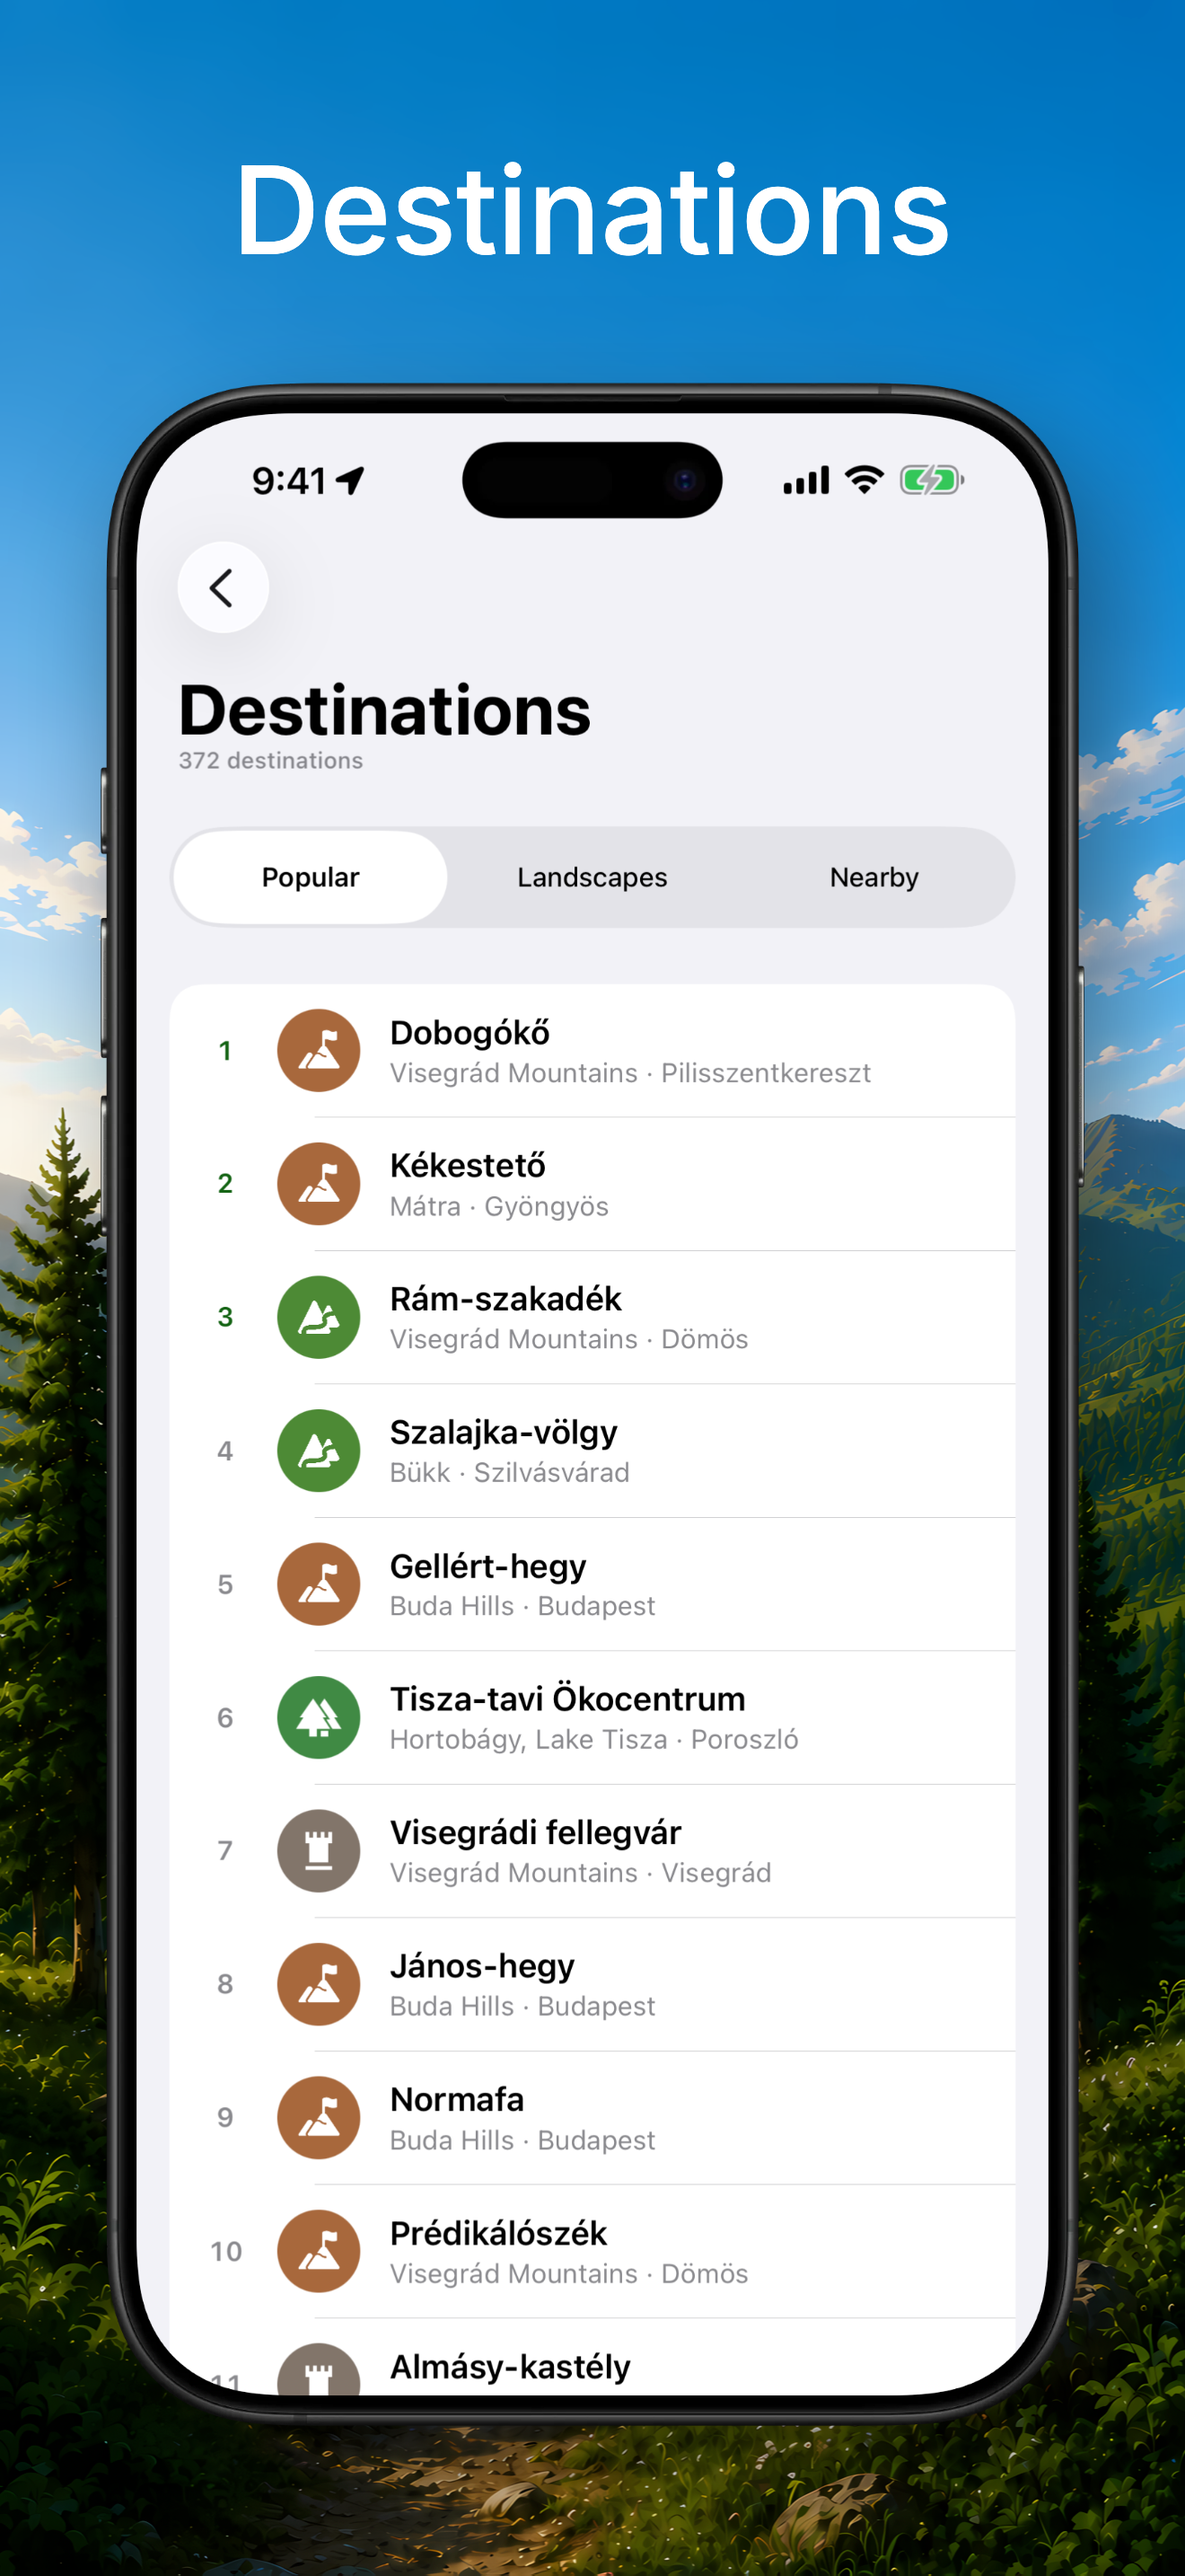
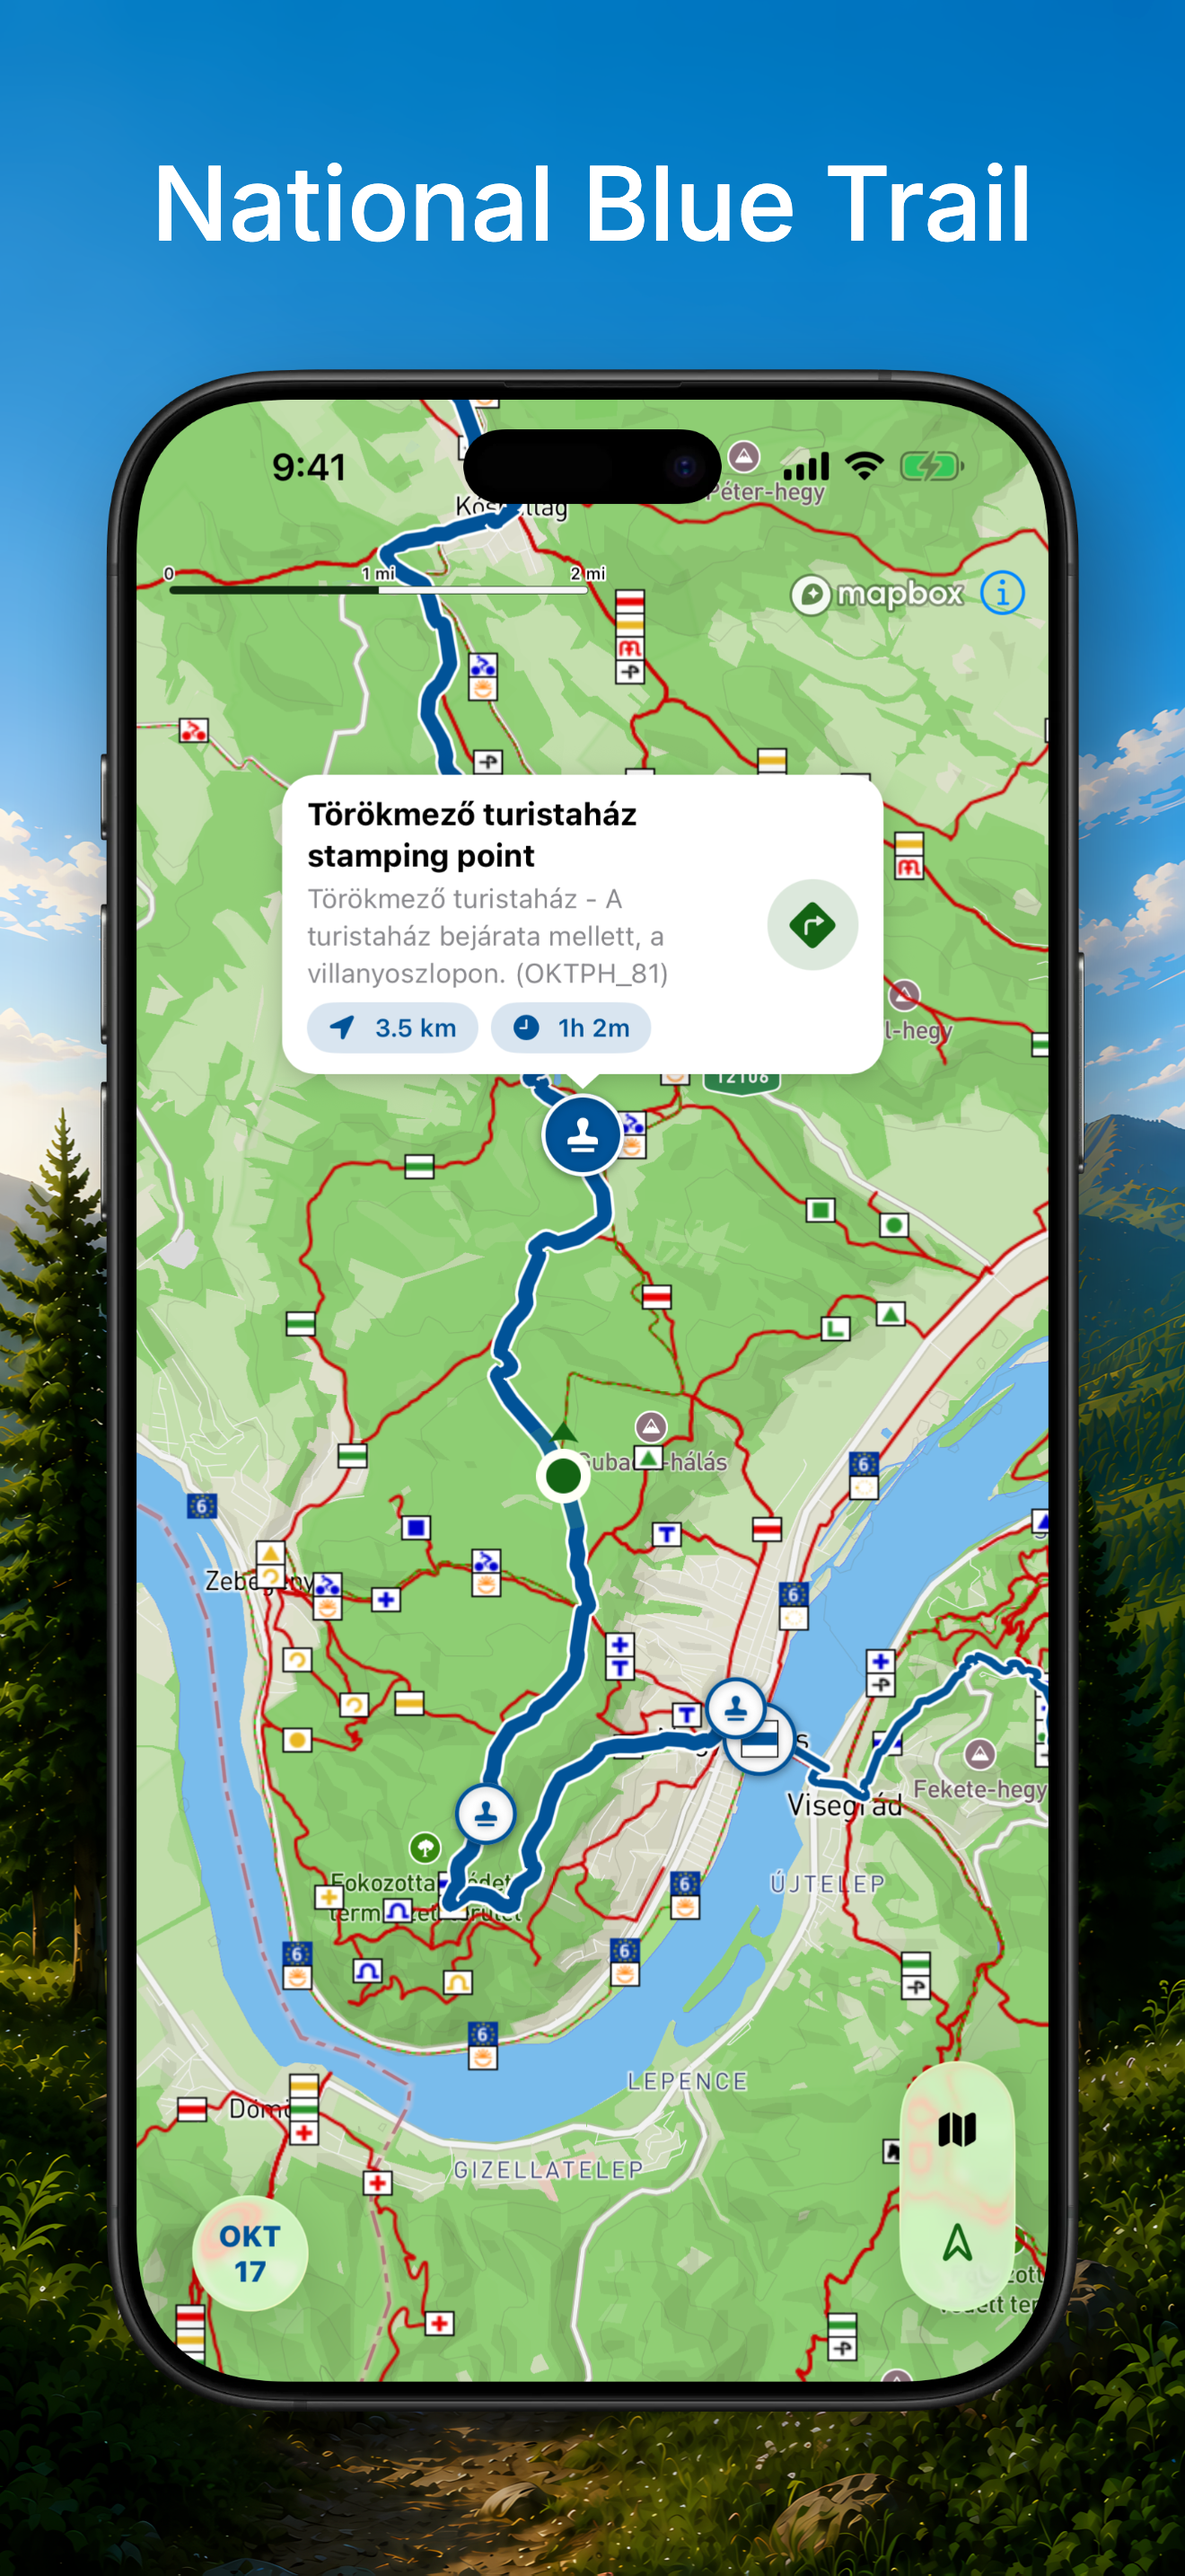
release(v1.3): update store content, versioning

diff --git a/tools/release/whatsnew/v1.3/whatsnew-hu-HU.md b/tools/release/whatsnew/v1.3/whatsnew-hu-HU.md
@@ -1,0 +1,3 @@
+- Országos Kéktúra a Felfedező menüben
+- OKT, RPDDK és AKT útvonalak a térképen
+- Bélyegzőhelyek távolsággal és menetidővel

diff --git a/tools/release/whatsnew/v1.3/whatsnew-en-US.md b/tools/release/whatsnew/v1.3/whatsnew-en-US.md
@@ -1,0 +1,3 @@
+- National Blue Trails in the Discover menu
+- OKT, RPDDK and AKT trails on the map
+- Stamping points with distance and travel time
